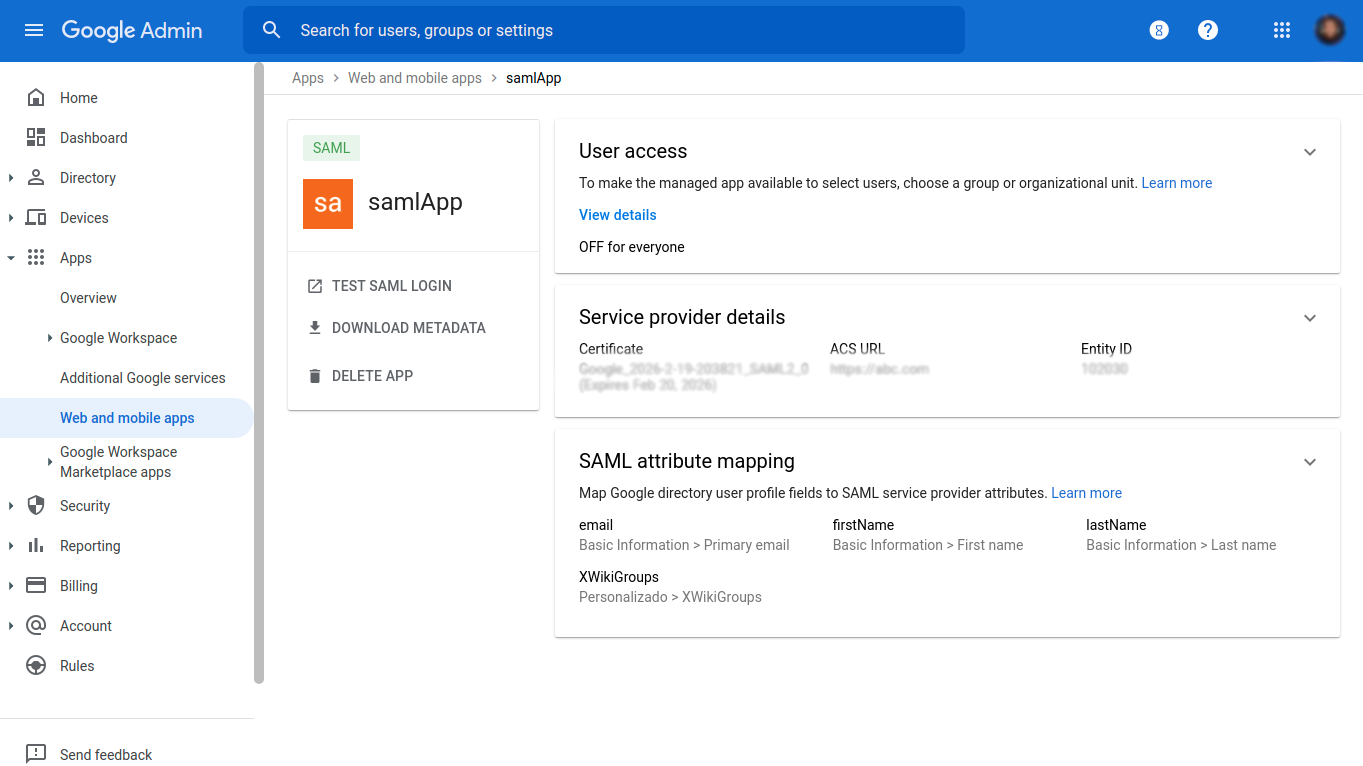
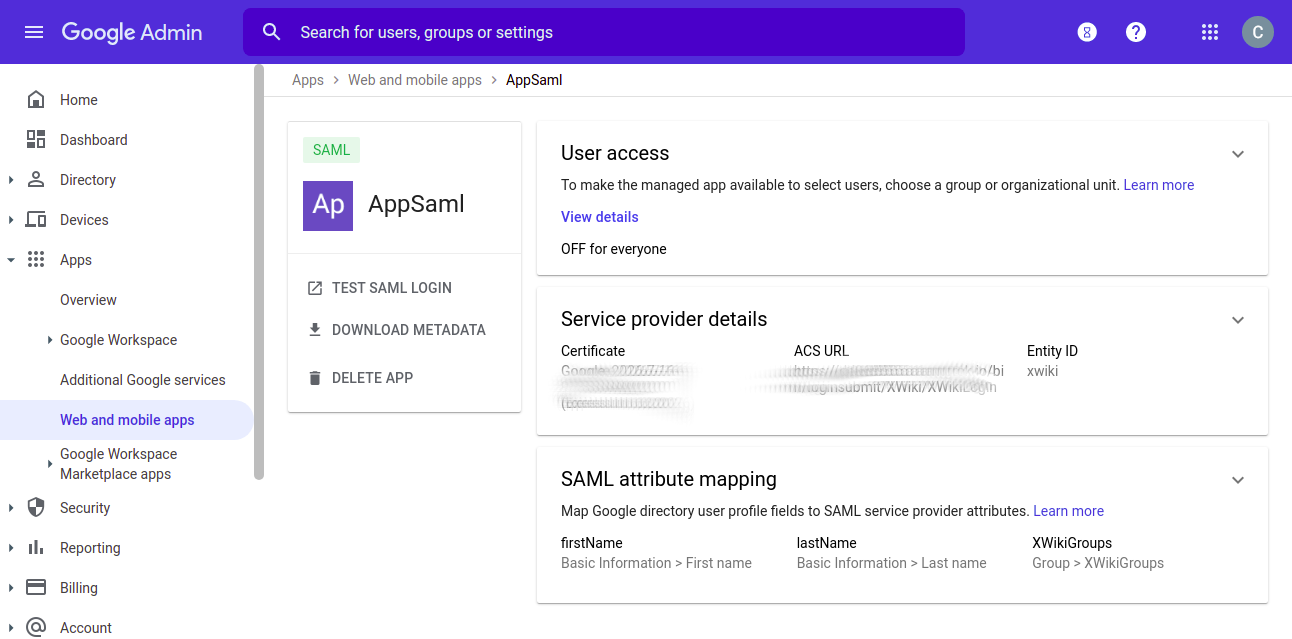
google workspace fix minors

diff --git a/google-workspace-setup.md b/google-workspace-setup.md
@@ -36,6 +36,7 @@ This can be used to specify the user groups.
     + From the Admin console Home page, go to Apps and then Web and mobile apps.
     + Click Add App and then Add custom SAML app.
 
+![google_saml_app_add](images/google_saml_app_add.png)
 ![google_saml_app](images/google_saml_app.png)
 
 2. In the second page download the metadata file (Identity Provider Metada XML). 
@@ -68,12 +69,13 @@ The value of Location field of `urn:oasis:names:tc:SAML:2.0:bindings:HTTP-POST` 
 
 2. Next to the service provider page:
 
-* ACS URL: https://<you wiki domain>/bin/loginsubmit/XWiki/XWikiLogin
+* ACS URL: https://(your wiki domain)/bin/loginsubmit/XWiki/XWikiLogin
 * Entity ID: the same value present on xwiki.authentication.saml2.sp.entityid
 * Name ID Format: EMAIL
 * Name ID Field: Basic Information > Primary email
 
 ![google_app_service_provider](images/google_app_service_provider.png)
+![google_app_service_provider_continue](images/google_app_service_provider_continue.png)
 
 3. Attribute mapping:
 
